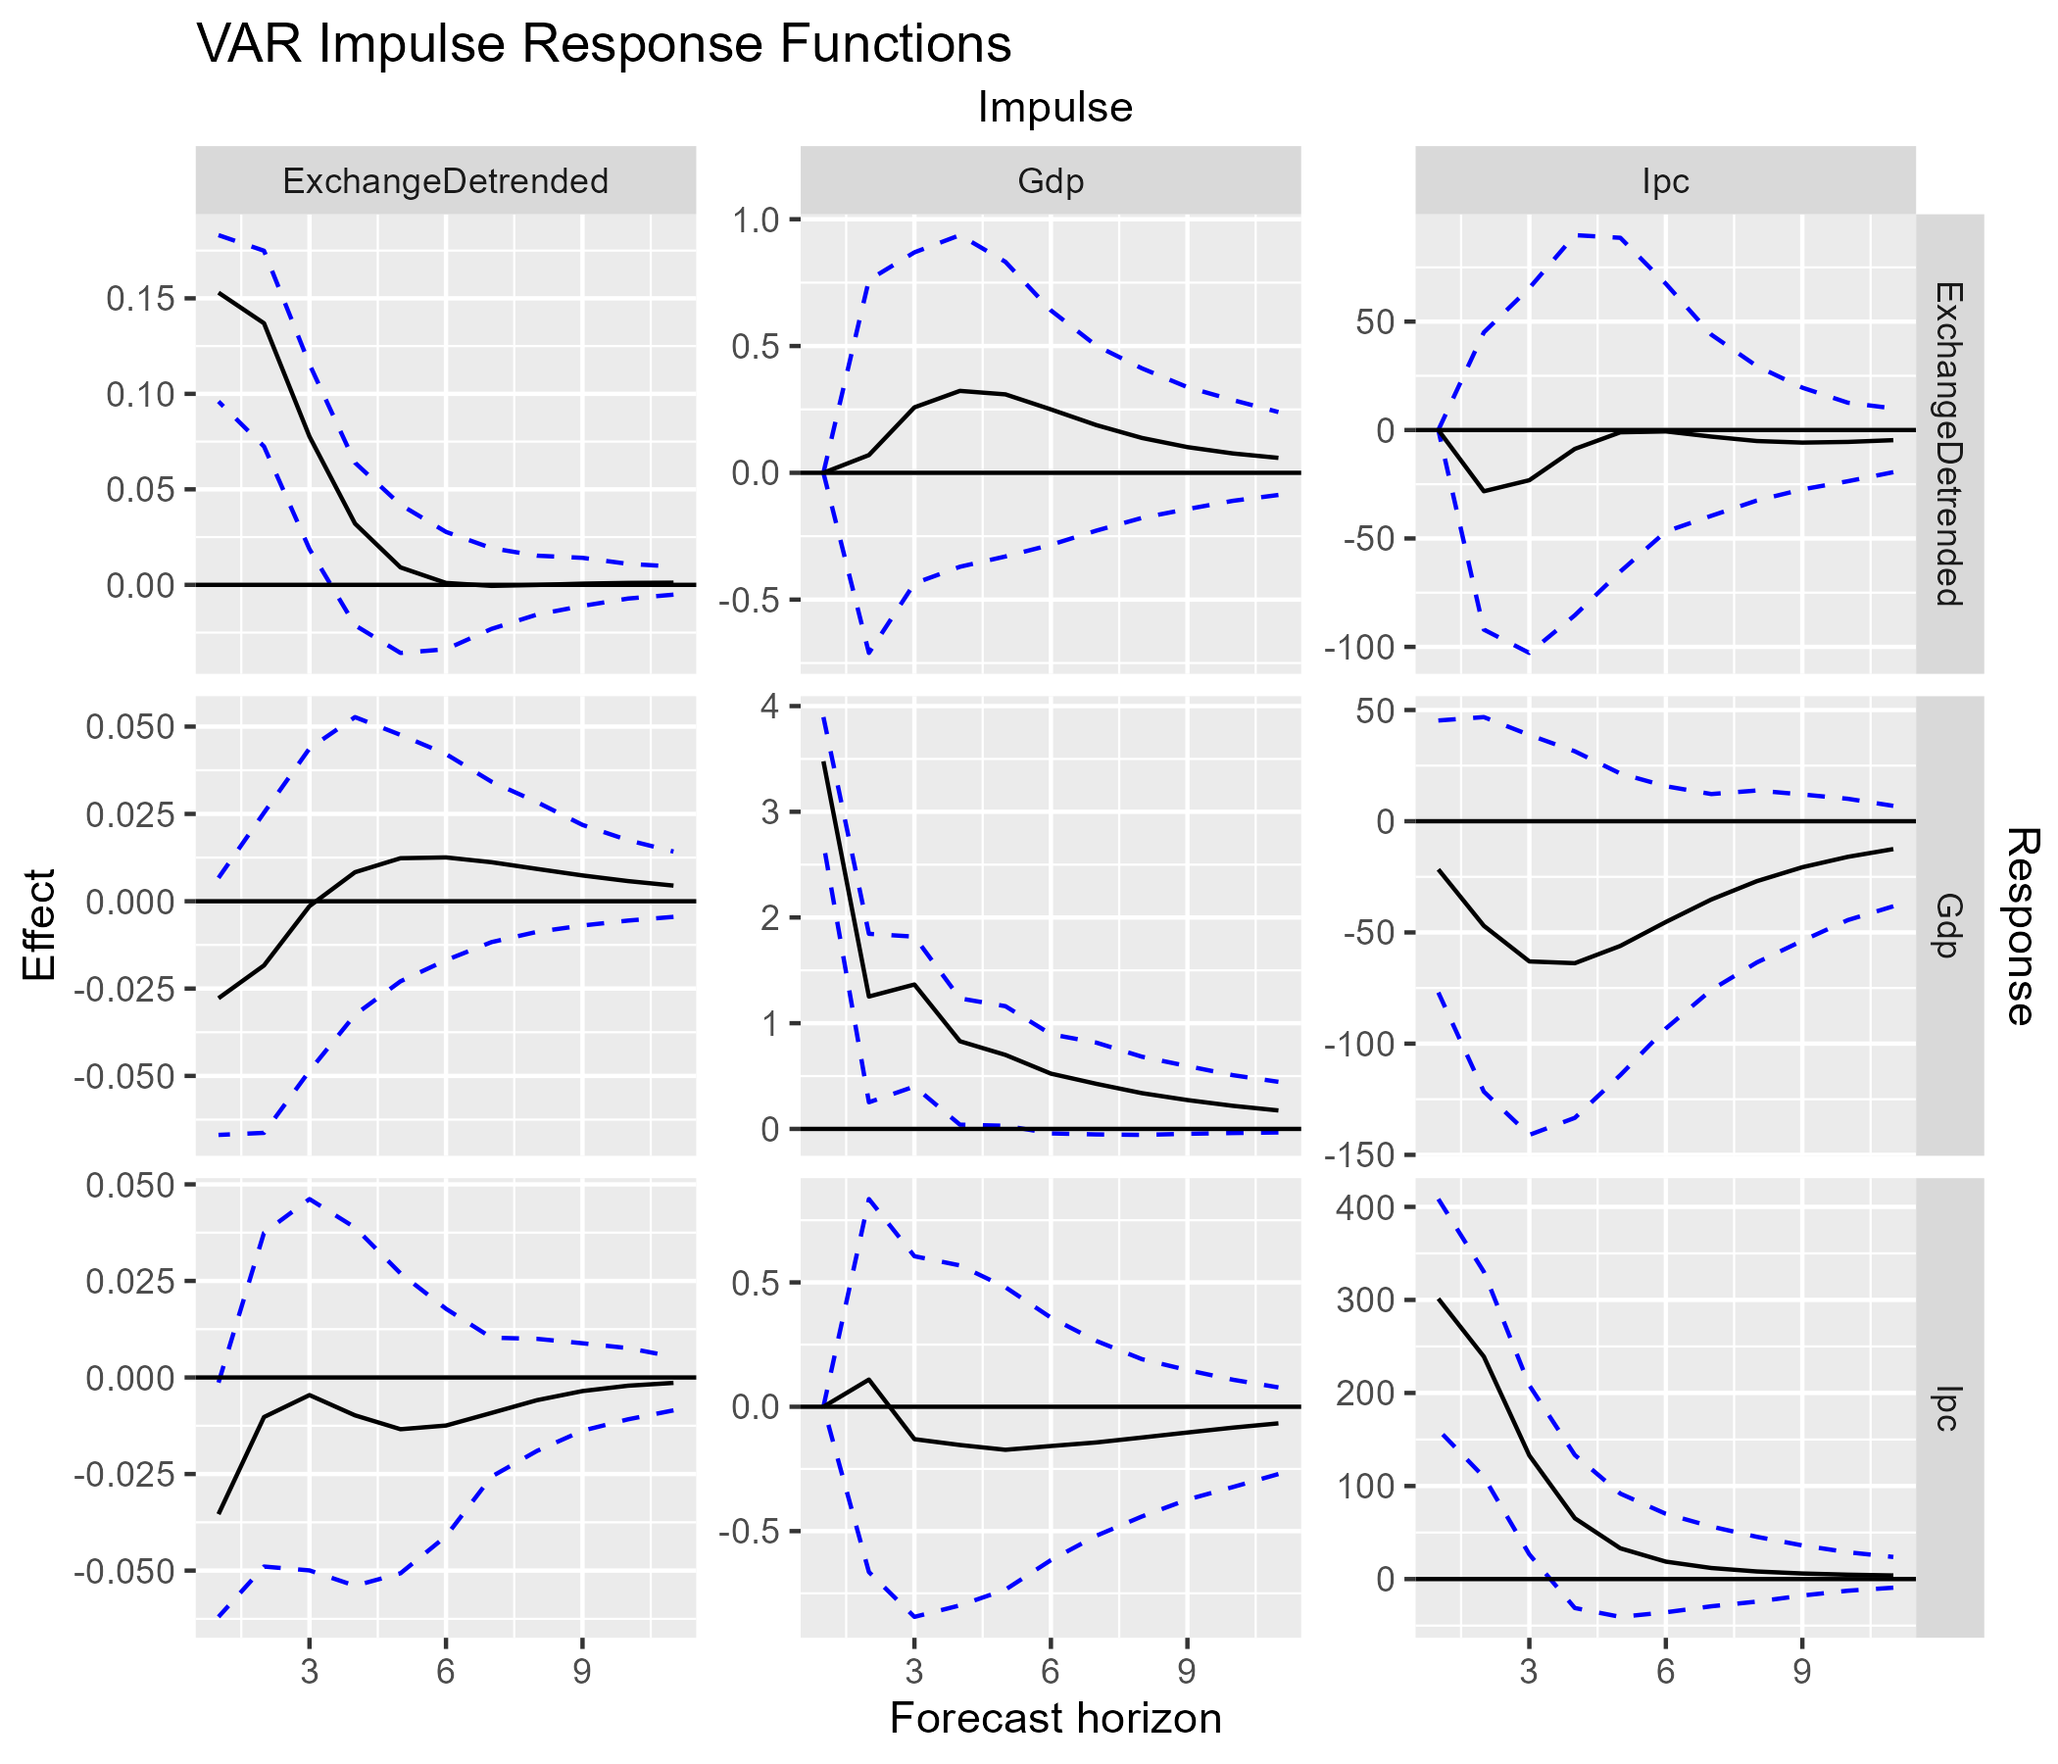
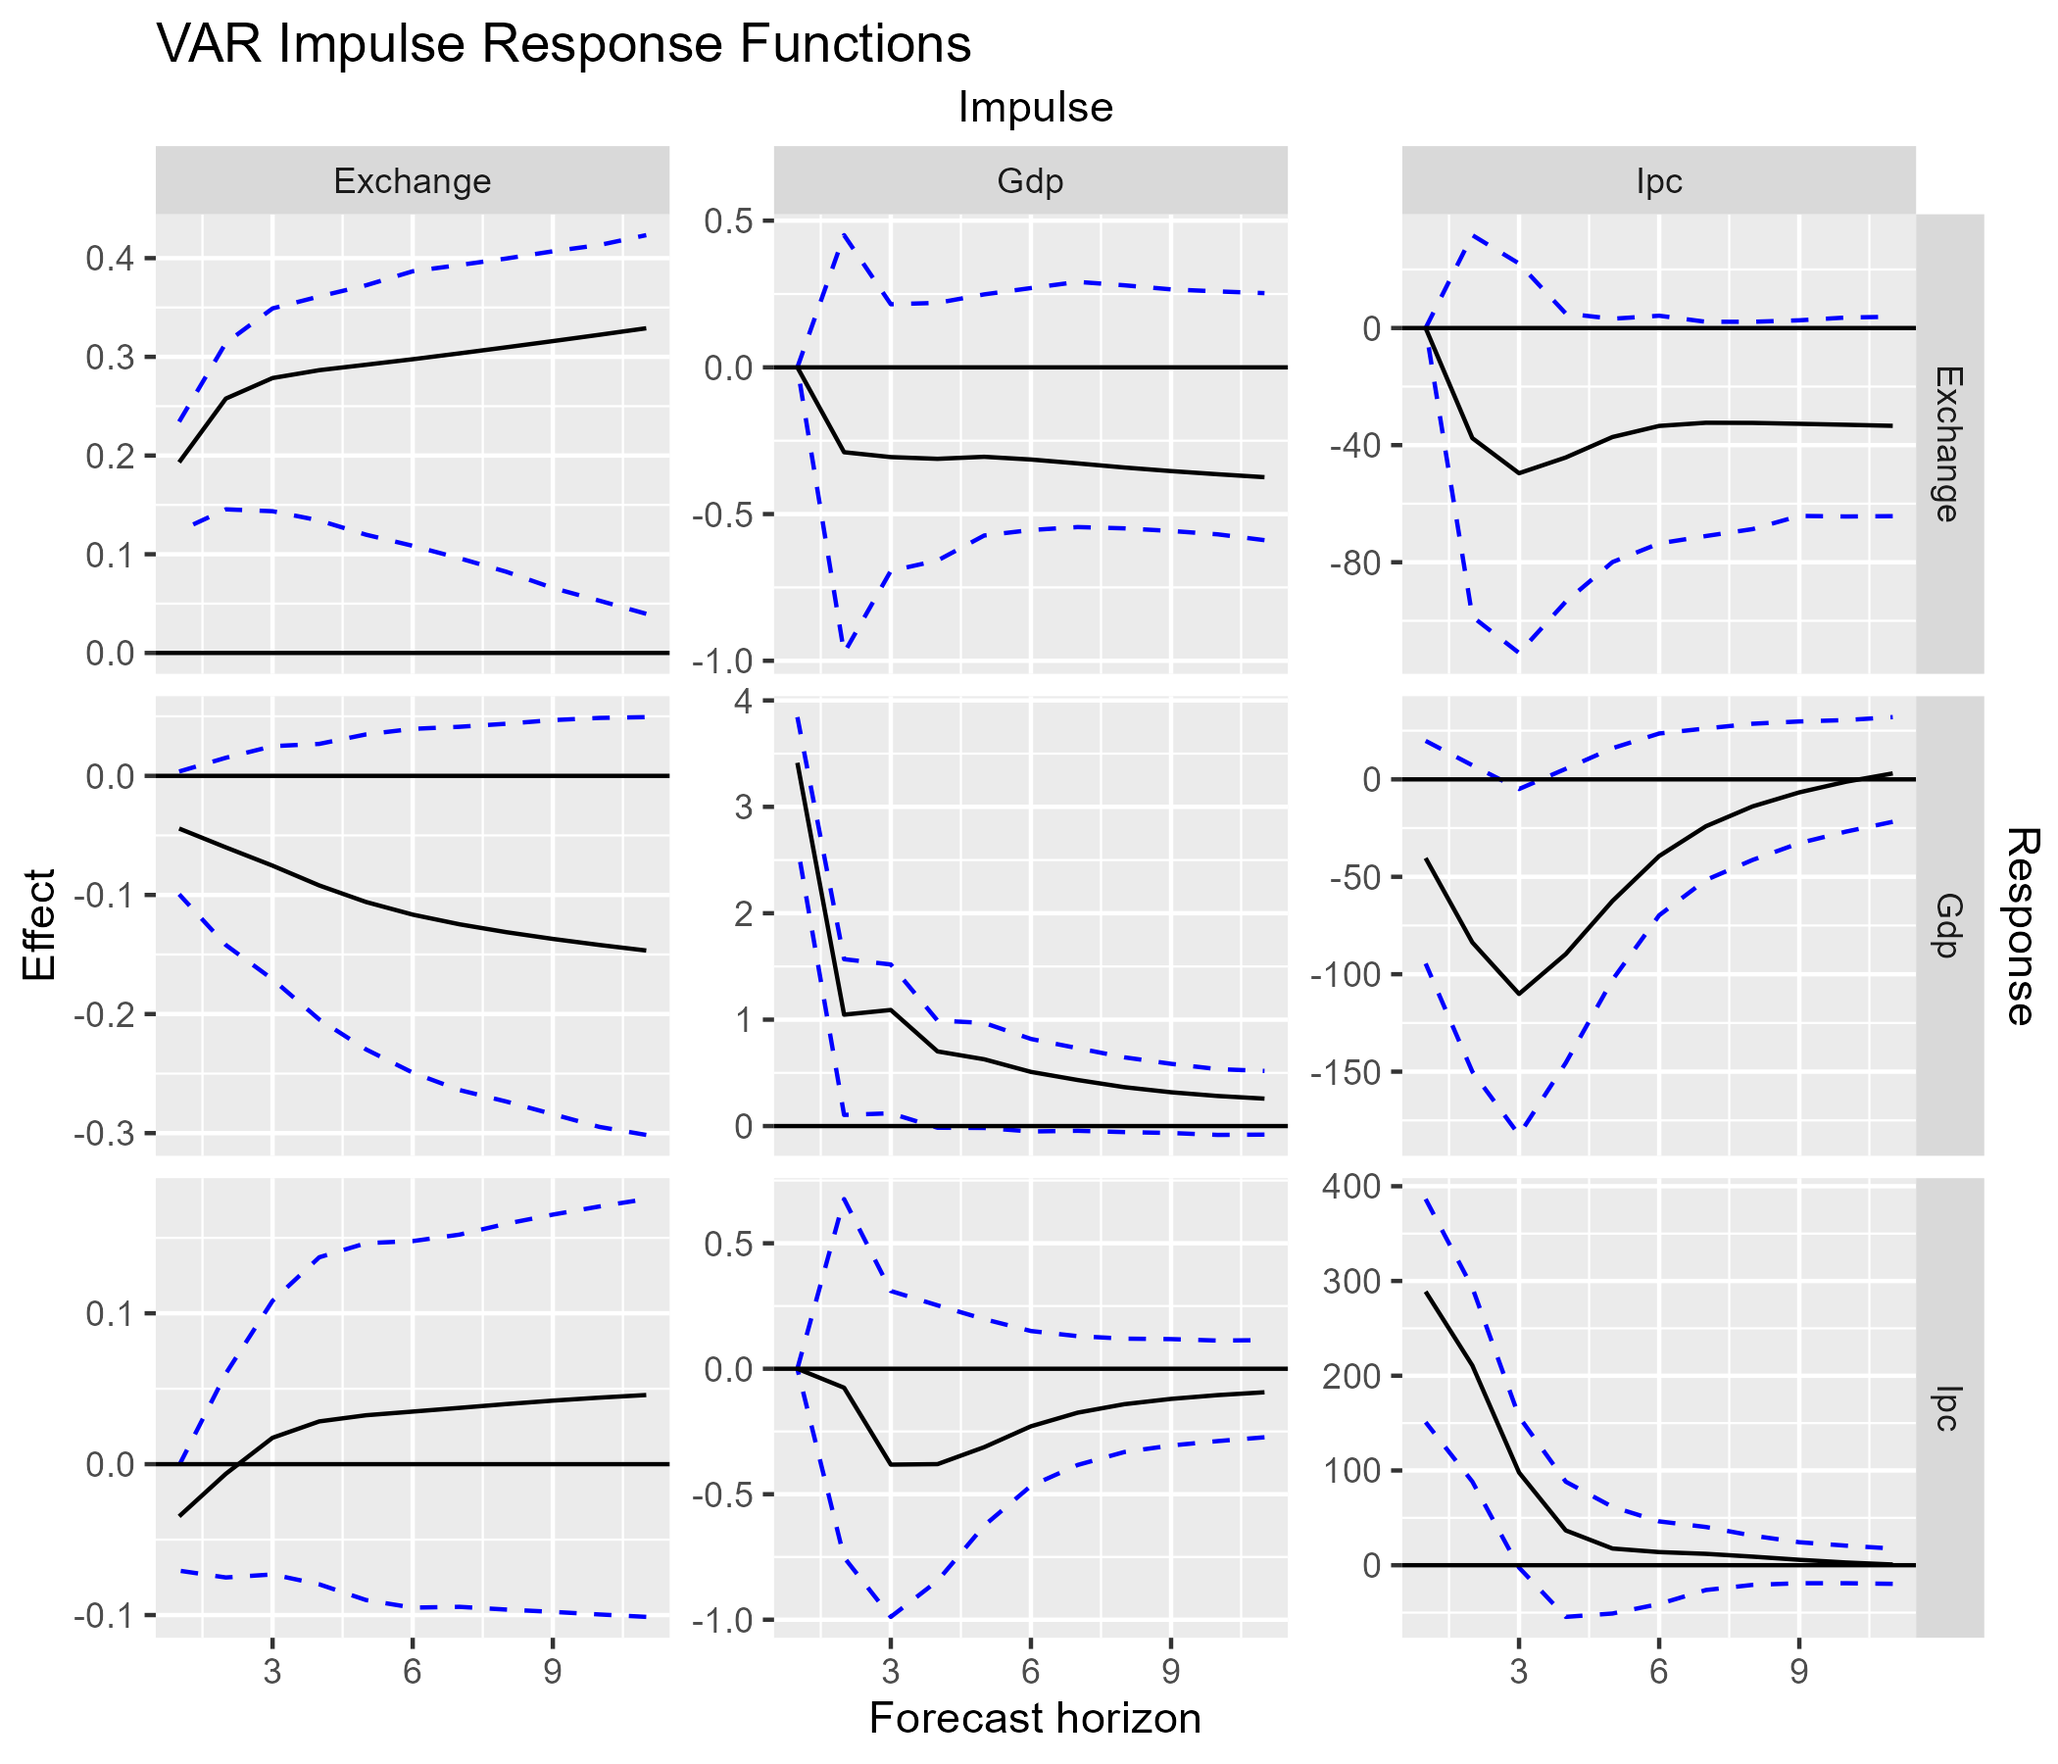
Added caption to tables, changed VAR order

diff --git a/ps3/tables/var_3.tex b/ps3/tables/var_3.tex
@@ -7,35 +7,35 @@
 \hline \\[-1.8ex] 
  & \multicolumn{3}{c}{\textit{Dependent variable:}} \\ 
 \cline{2-4} 
- & Gdp & Ipc & ExchangeDetrended \\ 
+ & Gdp & Ipc & Exchange \\ 
 \hline \\[-1.8ex] 
- Gdp.l1 & 0.332$^{**}$ & $-$6.670 & 0.004 \\ 
-  & (0.126) & (9.532) & (0.006) \\ 
-  Ipc.l1 & 0.0004 & 0.874$^{***}$ & 0.0001 \\ 
-  & (0.001) & (0.110) & (0.0001) \\ 
-  ExchangeDetrended.l1 & 0.470 & 3.501 & 0.866$^{***}$ \\ 
-  & (2.806) & (212.551) & (0.125) \\ 
-  Gdp.l2 & 0.303$^{**}$ & $-$8.556 & 0.004 \\ 
-  & (0.126) & (9.542) & (0.006) \\ 
-  Ipc.l2 & $-$0.001 & $-$0.568$^{***}$ & $-$0.00000 \\ 
-  & (0.002) & (0.141) & (0.0001) \\ 
-  ExchangeDetrended.l2 & 0.779 & $-$170.812 & $-$0.203 \\ 
-  & (3.642) & (275.915) & (0.163) \\ 
-  Gdp.l3 & 0.022 & 8.080 & $-$0.008 \\ 
-  & (0.120) & (9.123) & (0.005) \\ 
-  Ipc.l3 & 0.00002 & 0.515$^{***}$ & $-$0.0001 \\ 
+ Gdp.l1 & 0.269$^{**}$ & $-$12.038 & 0.003 \\ 
+  & (0.128) & (9.569) & (0.007) \\ 
+  Ipc.l1 & $-$0.001 & 0.800$^{***}$ & 0.0001 \\ 
   & (0.001) & (0.111) & (0.0001) \\ 
-  ExchangeDetrended.l3 & 0.748 & 277.678 & $-$0.090 \\ 
-  & (2.814) & (213.148) & (0.126) \\ 
-  const & 1.567$^{*}$ & 61.938 & 0.005 \\ 
-  & (0.842) & (63.799) & (0.038) \\ 
+  Exchange.l1 & $-$1.557 & $-$97.002 & 1.342$^{***}$ \\ 
+  & (2.181) & (162.545) & (0.127) \\ 
+  Gdp.l2 & 0.235$^{*}$ & $-$15.233 & 0.001 \\ 
+  & (0.131) & (9.755) & (0.008) \\ 
+  Ipc.l2 & $-$0.001 & $-$0.568$^{***}$ & $-$0.00004 \\ 
+  & (0.002) & (0.136) & (0.0001) \\ 
+  Exchange.l2 & 0.941 & $-$199.978 & $-$0.341 \\ 
+  & (3.544) & (264.062) & (0.206) \\ 
+  Gdp.l3 & $-$0.043 & 1.963 & $-$0.012 \\ 
+  & (0.123) & (9.176) & (0.007) \\ 
+  Ipc.l3 & $-$0.0004 & 0.495$^{***}$ & $-$0.00003 \\ 
+  & (0.001) & (0.108) & (0.0001) \\ 
+  Exchange.l3 & $-$0.141 & 239.065 & 0.008 \\ 
+  & (2.294) & (170.953) & (0.133) \\ 
+  const & 3.269$^{**}$ & 217.662$^{**}$ & 0.058 \\ 
+  & (1.292) & (96.271) & (0.075) \\ 
  \hline \\[-1.8ex] 
-Predictions & 2.2 & -3.31 & -0.06 \\ 
-MSE & 36.94 & 79.79 & 0.67 \\ 
+Predictions & 0.8 & -168.99 & 4.12 \\ 
+MSE & 21.88 & 30489.6 & 1.07 \\ 
 Observations & 75 & 75 & 75 \\ 
-R$^{2}$ & 0.332 & 0.645 & 0.552 \\ 
-Adjusted R$^{2}$ & 0.239 & 0.596 & 0.490 \\ 
-Residual Std. Error (df = 65) & 3.550 & 268.921 & 0.159 \\ 
+R$^{2}$ & 0.352 & 0.667 & 0.974 \\ 
+Adjusted R$^{2}$ & 0.262 & 0.621 & 0.970 \\ 
+Residual Std. Error (df = 65) & 3.496 & 260.490 & 0.203 \\ 
 \hline 
 \hline \\[-1.8ex] 
 \textit{Note:}  & \multicolumn{3}{r}{$^{*}$p$<$0.1; $^{**}$p$<$0.05; $^{***}$p$<$0.01} \\ 

diff --git a/ps3/tables/var_2.tex b/ps3/tables/var_2.tex
@@ -7,29 +7,29 @@
 \hline \\[-1.8ex] 
  & \multicolumn{3}{c}{\textit{Dependent variable:}} \\ 
 \cline{2-4} 
- & Gdp & Ipc & ExchangeDetrended \\ 
+ & Gdp & Ipc & Exchange \\ 
 \hline \\[-1.8ex] 
- Gdp.l1 & 0.366$^{***}$ & $-$10.189 & 0.002 \\ 
-  & (0.114) & (9.911) & (0.005) \\ 
-  Ipc.l1 & 0.0004 & 0.772$^{***}$ & 0.0001 \\ 
-  & (0.001) & (0.121) & (0.0001) \\ 
-  ExchangeDetrended.l1 & 0.457 & $-$184.556 & 0.895$^{***}$ \\ 
-  & (2.602) & (226.037) & (0.119) \\ 
-  Gdp.l2 & 0.274$^{**}$ & $-$4.680 & 0.002 \\ 
-  & (0.112) & (9.763) & (0.005) \\ 
-  Ipc.l2 & $-$0.001 & $-$0.155 & $-$0.0001 \\ 
+ Gdp.l1 & 0.282$^{**}$ & $-$18.671$^{*}$ & 0.001 \\ 
+  & (0.121) & (10.306) & (0.007) \\ 
+  Ipc.l1 & $-$0.0004 & 0.707$^{***}$ & 0.0001$^{*}$ \\ 
   & (0.001) & (0.120) & (0.0001) \\ 
-  ExchangeDetrended.l2 & 1.187 & 161.017 & $-$0.282$^{**}$ \\ 
-  & (2.614) & (227.051) & (0.120) \\ 
-  const & 1.716$^{**}$ & 129.982$^{*}$ & $-$0.023 \\ 
-  & (0.757) & (65.791) & (0.035) \\ 
+  Exchange.l1 & $-$1.497 & $-$194.682 & 1.334$^{***}$ \\ 
+  & (2.051) & (175.155) & (0.121) \\ 
+  Gdp.l2 & 0.195$^{*}$ & $-$13.218 & $-$0.0002 \\ 
+  & (0.117) & (9.982) & (0.007) \\ 
+  Ipc.l2 & $-$0.001 & $-$0.173 & $-$0.00005 \\ 
+  & (0.001) & (0.117) & (0.0001) \\ 
+  Exchange.l2 & 0.751 & 112.603 & $-$0.309$^{**}$ \\ 
+  & (2.122) & (181.280) & (0.125) \\ 
+  const & 3.200$^{***}$ & 288.045$^{***}$ & 0.0001 \\ 
+  & (1.085) & (92.642) & (0.064) \\ 
  \hline \\[-1.8ex] 
-Predictions & 2.47 & 119.48 & -0.11 \\ 
-MSE & 40.25 & 12965.15 & 0.74 \\ 
+Predictions & 0.72 & -112.25 & 4.13 \\ 
+MSE & 21.19 & 13893.94 & 1.04 \\ 
 Observations & 76 & 76 & 76 \\ 
-R$^{2}$ & 0.324 & 0.525 & 0.519 \\ 
-Adjusted R$^{2}$ & 0.265 & 0.484 & 0.478 \\ 
-Residual Std. Error (df = 69) & 3.477 & 302.094 & 0.159 \\ 
+R$^{2}$ & 0.349 & 0.557 & 0.973 \\ 
+Adjusted R$^{2}$ & 0.292 & 0.519 & 0.971 \\ 
+Residual Std. Error (df = 69) & 3.414 & 291.590 & 0.201 \\ 
 \hline 
 \hline \\[-1.8ex] 
 \textit{Note:}  & \multicolumn{3}{r}{$^{*}$p$<$0.1; $^{**}$p$<$0.05; $^{***}$p$<$0.01} \\ 

diff --git a/ps3/tables/var_1.tex b/ps3/tables/var_1.tex
@@ -7,23 +7,23 @@
 \hline \\[-1.8ex] 
  & \multicolumn{3}{c}{\textit{Dependent variable:}} \\ 
 \cline{2-4} 
- & Gdp & Ipc & ExchangeDetrended \\ 
+ & Gdp & Ipc & Exchange \\ 
 \hline \\[-1.8ex] 
- Gdp.l1 & 0.445$^{***}$ & $-$10.312 & 0.002 \\ 
-  & (0.104) & (8.593) & (0.005) \\ 
-  Ipc.l1 & $-$0.001 & 0.672$^{***}$ & 0.00002 \\ 
-  & (0.001) & (0.087) & (0.00005) \\ 
-  ExchangeDetrended.l1 & 1.016 & $-$77.375 & 0.698$^{***}$ \\ 
-  & (1.967) & (162.533) & (0.088) \\ 
-  const & 2.787$^{***}$ & 97.979$^{*}$ & $-$0.016 \\ 
-  & (0.687) & (56.757) & (0.031) \\ 
+ Gdp.l1 & 0.292$^{**}$ & $-$17.725$^{*}$ & $-$0.001 \\ 
+  & (0.111) & (9.499) & (0.007) \\ 
+  Ipc.l1 & $-$0.002$^{*}$ & 0.632$^{***}$ & 0.0001$^{*}$ \\ 
+  & (0.001) & (0.087) & (0.0001) \\ 
+  Exchange.l1 & $-$1.164$^{***}$ & $-$61.510$^{*}$ & 1.041$^{***}$ \\ 
+  & (0.411) & (35.044) & (0.024) \\ 
+  const & 4.478$^{***}$ & 182.530$^{**}$ & 0.011 \\ 
+  & (0.874) & (74.463) & (0.052) \\ 
  \hline \\[-1.8ex] 
-Predictions & 3.19 & 98.58 & -0.11 \\ 
-MSE & 50.01 & 8641.3 & 0.74 \\ 
+Predictions & 0.23 & -78.95 & 4.12 \\ 
+MSE & 16.92 & 7152.84 & 1.08 \\ 
 Observations & 77 & 77 & 77 \\ 
-R$^{2}$ & 0.227 & 0.504 & 0.474 \\ 
-Adjusted R$^{2}$ & 0.196 & 0.483 & 0.452 \\ 
-Residual Std. Error (df = 73) & 3.635 & 300.352 & 0.162 \\ 
+R$^{2}$ & 0.301 & 0.522 & 0.971 \\ 
+Adjusted R$^{2}$ & 0.273 & 0.503 & 0.970 \\ 
+Residual Std. Error (df = 73) & 3.457 & 294.664 & 0.204 \\ 
 \hline 
 \hline \\[-1.8ex] 
 \textit{Note:}  & \multicolumn{3}{r}{$^{*}$p$<$0.1; $^{**}$p$<$0.05; $^{***}$p$<$0.01} \\ 

diff --git a/ps3/tables/dftest_exchange.tex b/ps3/tables/dftest_exchange.tex
@@ -1,6 +1,6 @@
 
 \begin{table}[!htbp] \centering 
-  \caption{} 
+  \caption{ADF Test - Exchange} 
   \label{tb:dftest_exchange} 
 \begin{tabular}{@{\extracolsep{5pt}} cccc} 
 \\[-1.8ex]\hline 

diff --git a/ps3/tables/dftest_gdp.tex b/ps3/tables/dftest_gdp.tex
@@ -1,6 +1,6 @@
 
 \begin{table}[!htbp] \centering 
-  \caption{} 
+  \caption{ADF Test - GDP} 
   \label{tb:dftest_gdp} 
 \begin{tabular}{@{\extracolsep{5pt}} cccc} 
 \\[-1.8ex]\hline 

diff --git a/ps3/tables/dftest_ipc.tex b/ps3/tables/dftest_ipc.tex
@@ -1,6 +1,6 @@
 
 \begin{table}[!htbp] \centering 
-  \caption{} 
+  \caption{ADF Test - IPC} 
   \label{tb:dftest_ipc} 
 \begin{tabular}{@{\extracolsep{5pt}} cccc} 
 \\[-1.8ex]\hline 
